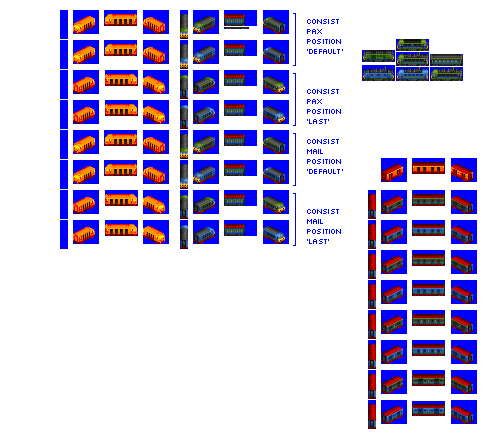
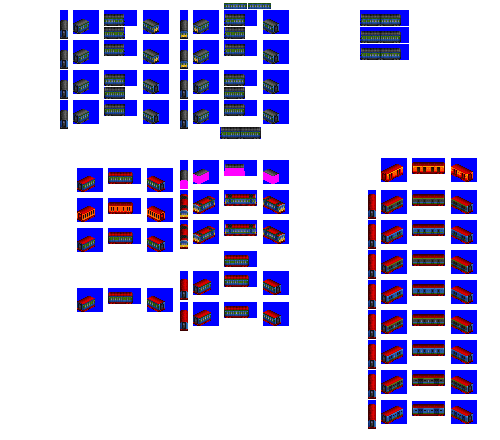
Change: WIP on autocoach

diff --git a/src/train.py b/src/train.py
@@ -712,22 +712,7 @@ class AutoCoachCombineConsist(EngineConsist):
         # ....run costs nerfed down to match equivalent gen 2 + 3 pax / mail cars
         self.fixed_run_cost_points = 43
         # Graphics configuration
-        # !!!! due to use of custom gestalt, might just need to draw roofs into vehicle sprites
-        # !! what about opening doors and crap?
-        # !! see also very high speed pax cab units which have similar issue when opening doors are needed
-        if self.gen in [2, 3]:
-            self.roof_type = 'pax_mail_ridged'
-        else:
-            self.roof_type = 'pax_mail_smooth'
-        # !!!!! needs updated: no alt livery, no flip, dedicated ruleset, use custom Gestalt and template - see snowplough !!!!
-        # driving cab cars have consist cargo mappings for pax, mail (freight uses mail)
-        # * pax matches pax liveries for generation
-        # * mail gets a TPO/RPO striped livery, and a 1CC/2CC duotone livery
-        # position based variants
-        spriterow_group_mappings = {'mail': {'default': 0, 'first': 0, 'last': 1, 'special': 0},
-                                    'pax': {'default': 0, 'first': 0, 'last': 1, 'special': 0}}
-        self.gestalt_graphics = GestaltGraphicsConsistSpecificLivery(spriterow_group_mappings,
-                                                                     consist_ruleset='driving_cab_cars')
+        self.gestalt_graphics = GestaltGraphicsCustom('vehicle_autocoach.pynml')
 
 
 class MailEngineConsist(EngineConsist):
